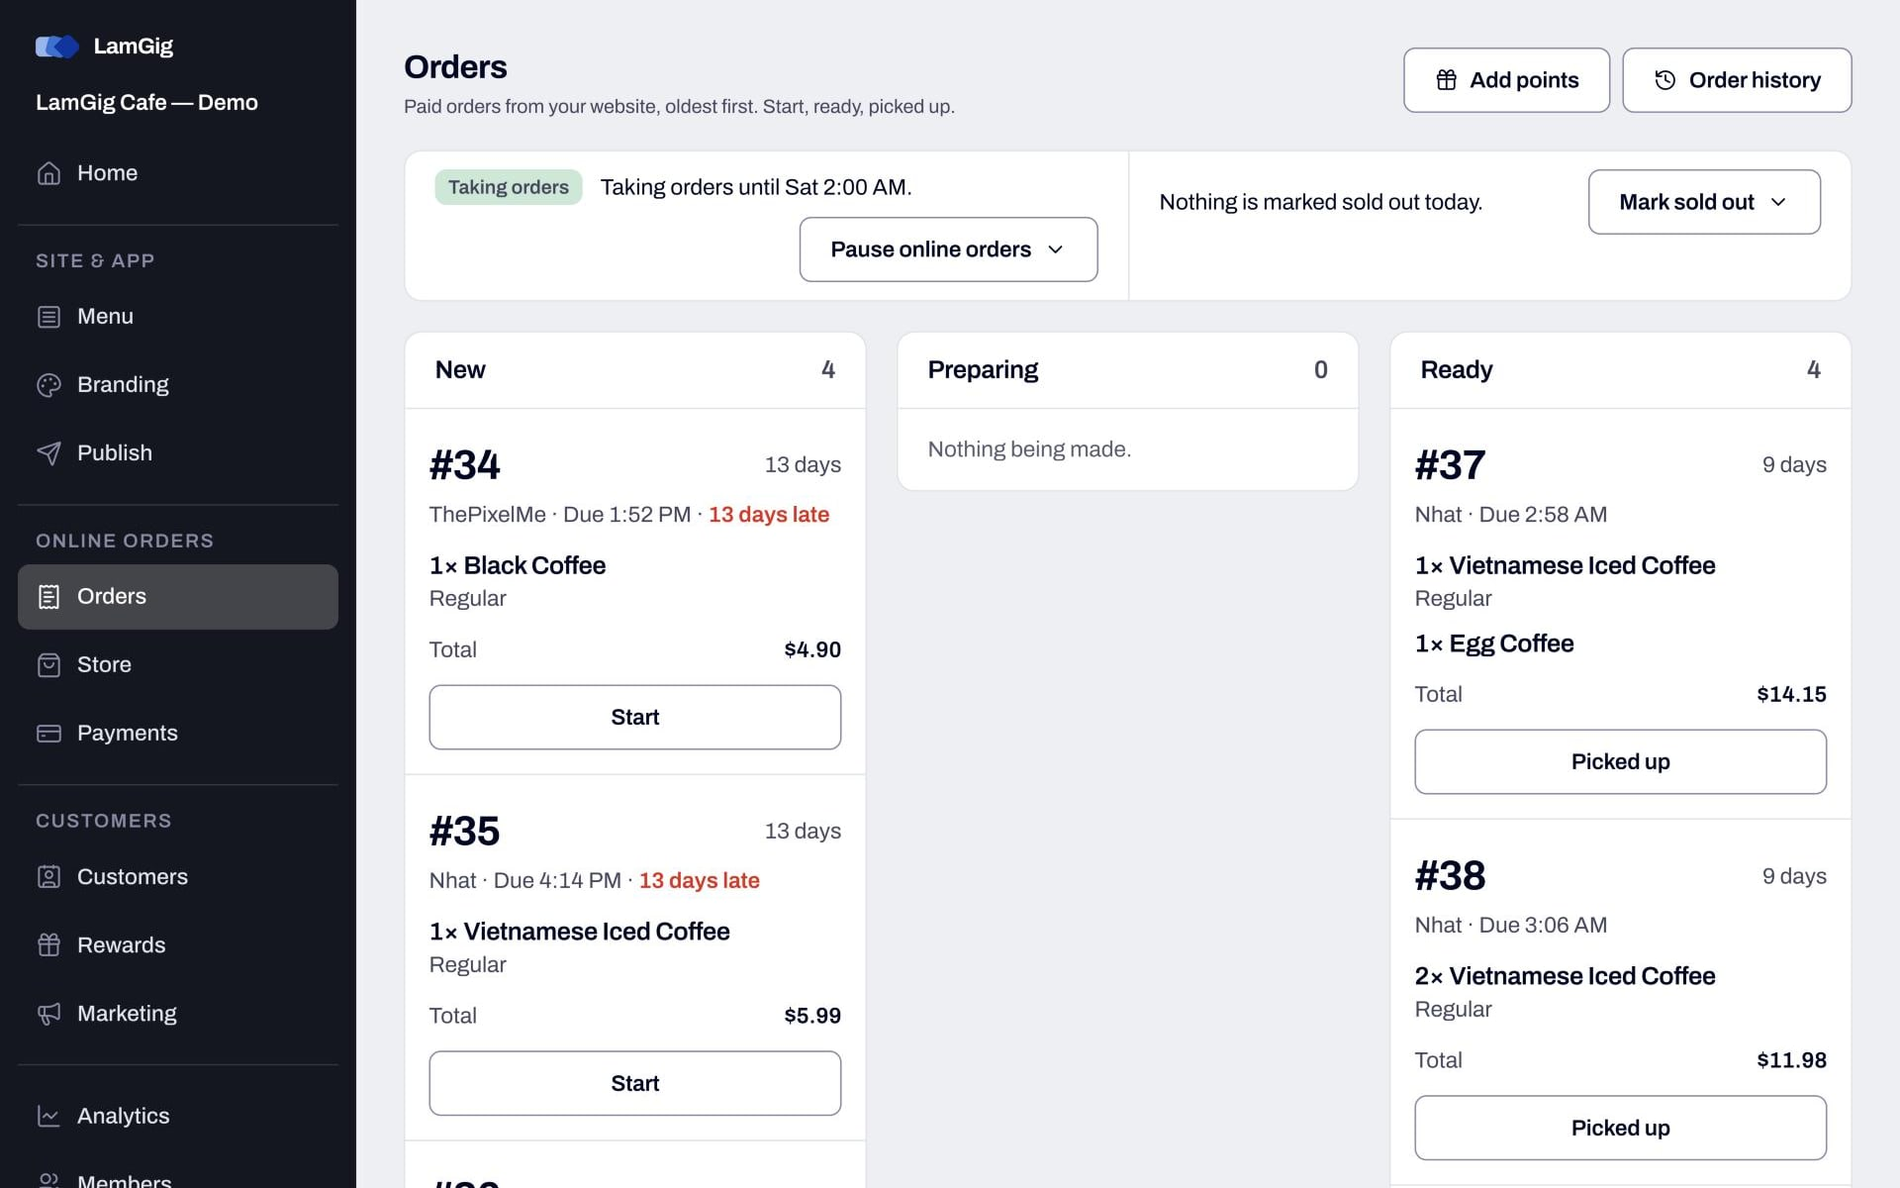
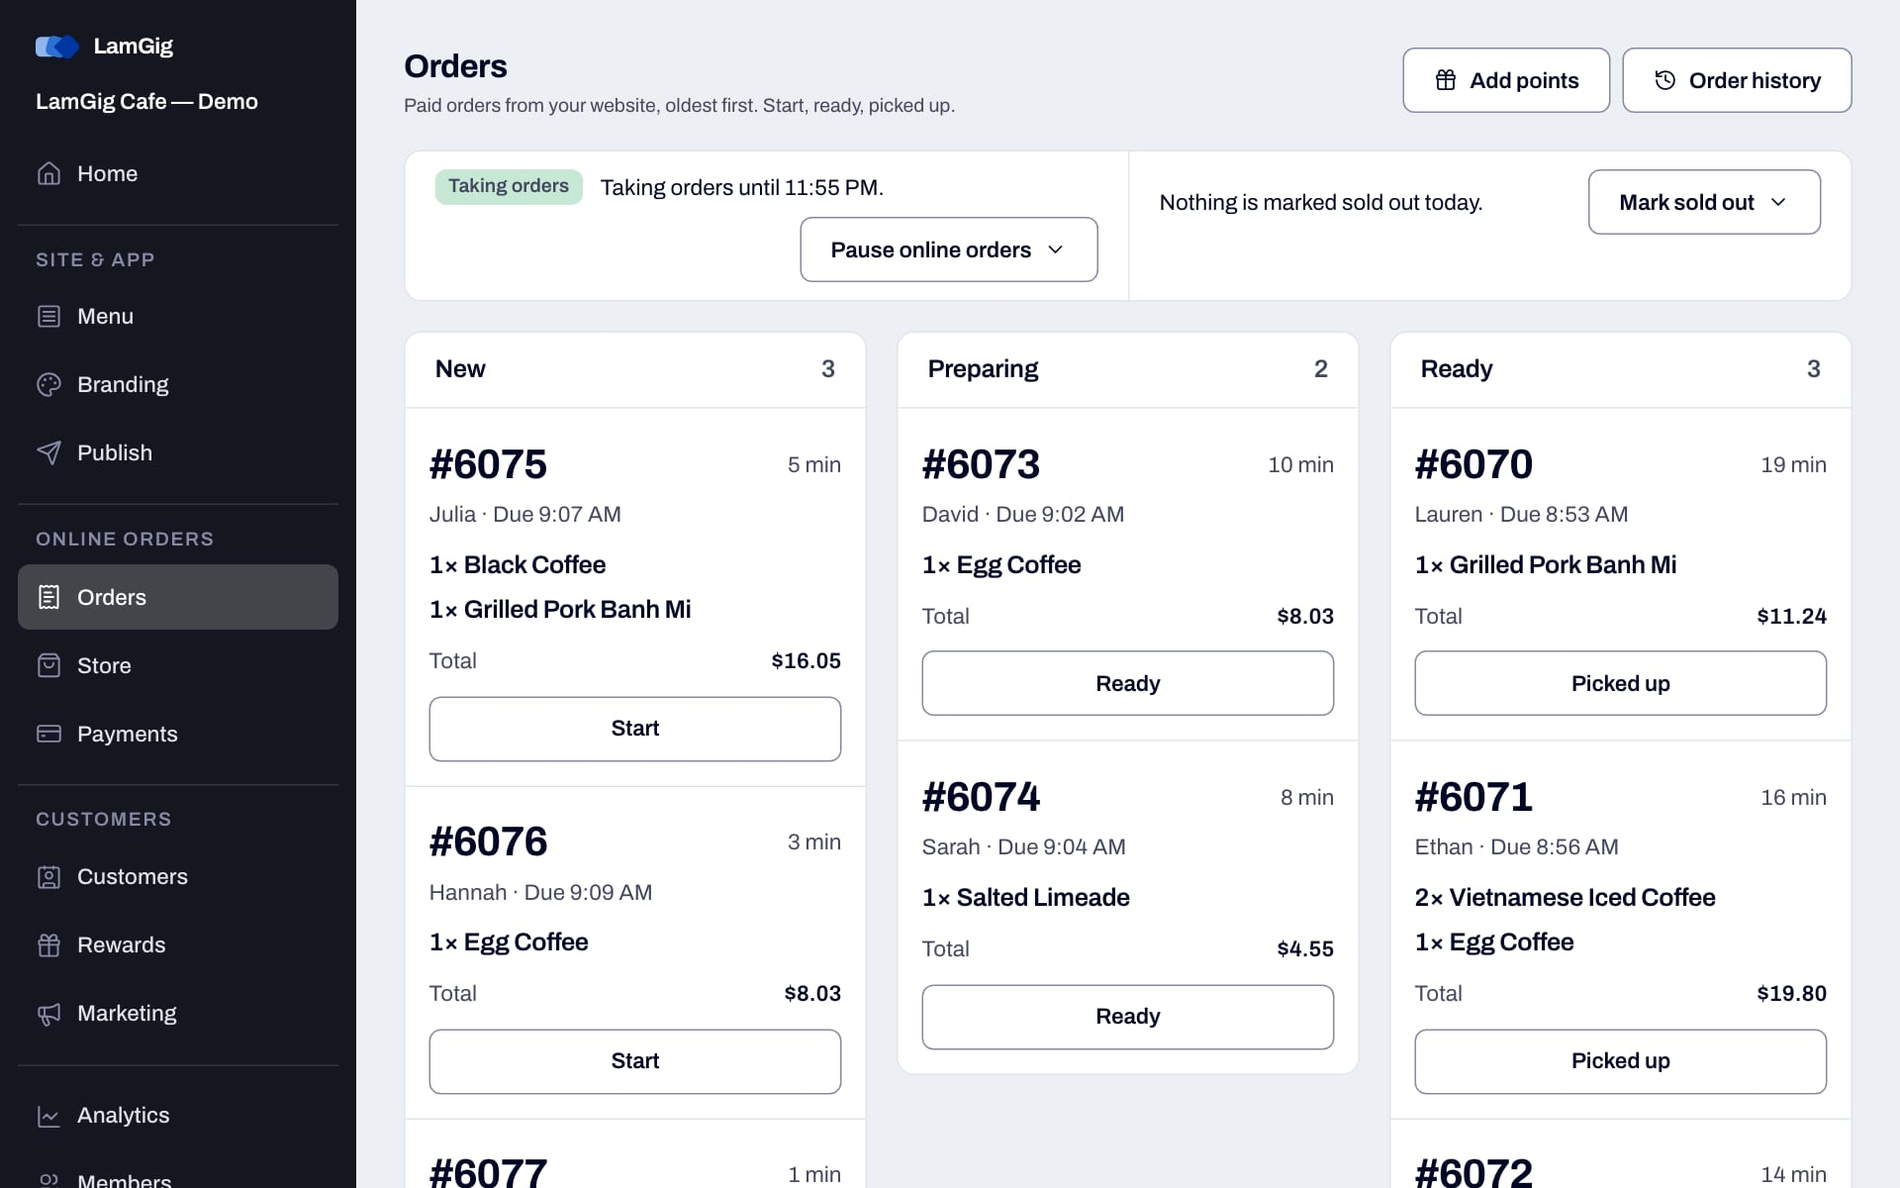
feat: update LamGig with booking, its customer list and new screenshots
The case study predated booking and the customer and marketing screens,
and it opened on the architecture. Hiring managers read this page, so
the copy now leads with what the product does for a business, in plain
language.

The summary, description, status, problem, highlights, design notes and
learnings are rewritten. The highlights add booking and the customer
list that sorts itself. The status says no real business is live yet,
that everything on screen is sample data, and what is not switched on
or built. Figures are recounted from the LamGig repos: more than 250,000
lines of code and more than 3,000 automated tests.

Ten screenshots of the demo stores, in the same 1920x1200 JPEG format,
replace the old seven. The app image's level-up screen is a mock-up, and
both the image and the loyalty highlight say levels are not built.
docs/data.md carries the new count.

diff --git a/src/lib/projects/lamgig-platform.ts b/src/lib/projects/lamgig-platform.ts
@@ -19,38 +19,50 @@ export const lamgigPlatform: Project = {
   linkLabel: "Visit lamgig.com",
   screenshots: [
     {
+      src: "/lamgig/screenshot-calendar.jpg",
+      alt: "Calendar in the LamGig dashboard for the salon demo: a day of sample appointments in a column for each team member, with New booking, Walk-in, and Block time buttons",
+    },
+    {
+      src: "/lamgig/screenshot-website-salon.jpg",
+      alt: "Home page of the salon demo's website: a large photo of nails being painted, the salon's name, today's opening time, and a Book now button",
+    },
+    {
+      src: "/lamgig/screenshot-booking.jpg",
+      alt: "Booking page on the salon demo's website at step 3 of 4: a row of dates and the open times for a gel manicure, with the service, person, and total summarized below",
+    },
+    {
+      src: "/lamgig/screenshot-ordering.jpg",
+      alt: "Order for pickup page on the cafe demo's website: coffees with photos and prices, one marked sold out, beside a Your order panel",
+    },
+    {
       src: "/lamgig/screenshot-orders.jpg",
-      alt: "LamGig dashboard Orders screen for the LamGig Cafe demo: a live order queue with New, Preparing, and Ready columns, each order card showing its items, total, and a Start or Picked up button, plus controls to pause online ordering and mark items sold out",
+      alt: "Orders screen for the cafe demo: sample orders in New, Preparing, and Ready columns with a one-tap button on each, plus controls to pause online orders and mark items sold out",
     },
     {
-      src: "/lamgig/screenshot-home.jpg",
-      alt: "Dashboard Home screen with a Needs you alert about late orders and an Open orders button, Orders today and Sales today cards, and a Recent activity feed of team and loyalty actions",
+      src: "/lamgig/screenshot-app.jpg",
+      alt: "Four screens from the cafe demo's iPhone app: the home screen with an Order online button, the menu, a mock-up of the level-up screen saying You reached Gold above a bottom navigation with Rewards selected, and a We miss you push notification on the lock screen. A caption says points are built and levels are a mock-up, not built yet",
     },
     {
-      src: "/lamgig/screenshot-menu.jpg",
-      alt: "Dashboard Menu editor listing Coffee items with descriptions, prices, and availability toggles, with a seasonal item switched off and a New category button",
+      src: "/lamgig/screenshot-customers.jpg",
+      alt: "Customers screen for the cafe demo: sample customers sorted into New, Regulars, VIP, At risk, Lapsed, Subscribed, and Rewards members, each with orders, lifetime value, and points",
+    },
+    {
+      src: "/lamgig/screenshot-automations.jpg",
+      alt: "Automations list in the cafe demo's Marketing screen: Welcome, Thank-you, Win-back, Birthday, and Loyalty milestone, each switched on, with sample counts of messages sent in the last 30 days",
+    },
+    {
+      src: "/lamgig/screenshot-win-back.jpg",
+      alt: "Win-back automation report for the cafe demo, with sample figures: emails sent and opened, and the orders and sales that followed within 7 days, with a plain explanation of how they are counted",
     },
     {
       src: "/lamgig/screenshot-publish.jpg",
-      alt: "Publish screen showing the live version, a Publish again button, and a version history with a one-click Roll back button beside every earlier version",
-    },
-    {
-      src: "/lamgig/screenshot-store.jpg",
-      alt: "Store settings screen with online ordering status and pause options, live Stripe payments with accepted merchant terms, LamGig Payments switched on, and new-order email alerts",
-    },
-    {
-      src: "/lamgig/screenshot-rewards.jpg",
-      alt: "Rewards program settings showing what members earn now and a scheduled change to points per dollar, daily app check-in, joining, and birthday points, each with plain-language rules",
-    },
-    {
-      src: "/lamgig/screenshot-push-automation.jpg",
-      alt: "Win-back automation editor in the Marketing section: a push notification form with title, message, and tap destination beside a live lock-screen preview",
+      alt: "Publish screen: the live version, a Publish again button, and a version history with a one-click Roll back button beside every earlier version",
     },
   ],
   summary:
-    "A multi-tenant platform that gives small businesses the technology big chains pay six figures for: their own website and iOS and Android apps, online ordering and payments, customer accounts, a loyalty program, and automated email and push marketing, all run from one dashboard.",
+    "The technology big chains pay six figures for, in one product a small business can run by itself: a website and apps under its own name, online ordering and payments, appointment booking, a customer list that sorts itself, automatic marketing, and loyalty points.",
   description:
-    "I founded LamGig and designed and built the entire platform myself in about three months. That covers the multi-tenant backend and database, the owner dashboard and LamGig's staff console, payments, email and push messaging, the customer website, and native iOS and Android apps. It comes to more than 200,000 lines of code, which is the kind of system a company would normally give to a full product team.",
+    "I founded LamGig and designed and built all of it myself: the dashboard business owners work in, the websites and iPhone and Android apps their customers use, and everything behind them that takes payments, books appointments, and sends marketing. It comes to more than 250,000 lines of code and more than 3,000 automated tests, the kind of product a company would normally give to a full team.",
   role: "Founder, designer, and sole engineer",
   stack: [
     "Next.js 16",
@@ -72,37 +84,41 @@ export const lamgigPlatform: Project = {
     "Vitest",
   ],
   status:
-    "Live in production and set up for real payments. The whole platform, including the website and both apps, runs end to end on staging with a demo cafe, ahead of its first pilot business.",
+    "Live in production with two demo stores, a cafe and a salon. No real business is on it yet, so every customer, order, and dollar in these screenshots is sample data. Production is set up for real payments and bookings. Email and push marketing and the iPhone and Android apps are built and tested, but aren't yet switched on for real businesses or in the app stores. A fourth product, Connected Growth, where neighboring businesses send each other customers, is planned and not built.",
   problem:
-    "Big chains run on enterprise software for online ordering, customer data, automated marketing, and loyalty. A neighborhood cafe can't afford any of that, so it pays for a handful of separate subscriptions that don't share customers or data.\n\nLamGig gives that cafe the whole set on one platform. Its website and apps carry its own brand, and ordering, payments, the customer list, loyalty, and marketing all work from the same data. The hard part was keeping it simple for an owner who logs in once a month while making it solid enough to handle money, customer data, and messaging for many businesses at once.",
+    "Nearly 60% of revenue at Starbucks' US company-run stores comes from rewards members. Starbucks knows your name, your usual, and the week you stopped coming, and it sends you a reason to come back. The business on your corner has a paper book, or a few separate subscriptions that don't share customers or data. A restaurant that joins a delivery app gives up a cut of every order and gets a first name and a last initial in return.\n\nLamGig gives that business the whole set under its own name. Every order, appointment, and loyalty point lands on one customer record that belongs to the business, and the marketing works from it automatically. The hard part was keeping all of that simple for an owner with no technical help, while making it solid enough to handle money, customer data, and messaging for many businesses at once.",
   highlights: [
     {
-      title: "One publish updates the website and both apps",
-      body: "Owners change their menu, prices, hours, and branding in plain forms and publish when they're ready. The website and the native iOS and Android apps all read the same published content, so a new price reaches a customer's phone within a minute, with no app update. Each publish is saved as a numbered version, and rolling back takes one click. Rollback is instant because nothing gets rebuilt; the live pointer just moves back to the earlier version. If a publish fails halfway, it picks up where it stopped, and each of those failure points has an automated test that breaks it on purpose.",
+      title: "One click updates the website and both apps",
+      body: "Owners change their menu or services, prices, hours, and branding in plain forms, then press Publish. The website and the iPhone and Android apps all update within about a minute, with no developer and no app store release. Every publish is saved, so one click brings back any earlier version. If a publish fails halfway, it picks up where it stopped.",
     },
     {
-      title: "Online ordering with a live counter",
-      body: "Customers order pickup on the business's own website and pay by card or mobile wallet. The order appears on the dashboard's Orders screen as soon as it's paid, with a chime so nobody misses it, and staff move it through New, Preparing, and Ready with one tap. They can pause online ordering for 30 minutes or until close, mark items sold out for the day, and issue refunds. The Home screen flags anything that needs attention, like orders running late.",
+      title: "Online ordering with no marketplace in the middle",
+      body: "Customers order pickup on the business's own website or app and pay by card or mobile wallet. Paid orders appear on the counter screen within seconds, with a chime, and staff move each one along with a tap. They can pause ordering during a rush, mark items sold out for the day, and issue refunds. Through Stripe, the money goes straight to the business's own bank account and LamGig's fee comes out automatically.",
     },
     {
-      title: "Payments with LamGig's revenue built in",
-      body: "Payments run on Stripe Connect. Each business is paid straight to its own bank account, and LamGig's platform fee comes out of every order automatically. Production is set up for real money. LamGig's staff can stop ordering for one business or the whole platform in an emergency, a job reconciles payments every night, any order can be rebuilt from Stripe's records, and each business accepts merchant terms before it can take a payment.",
+      title: "Takes bookings while the shop is closed",
+      body: "A salon's customers choose a service, a person, and a time on its website at any hour. The appointment lands on the front desk's calendar by itself, and one person can never be booked twice for the same time. Customers get a confirmation and a reminder email and can change or cancel online, up to a cutoff the business sets. The owner gets a summary in the morning. Walk-ins and phone bookings go on the same calendar.",
     },
     {
-      title: "Email and push marketing with guardrails",
-      body: "Owners can send email campaigns and push notifications, or turn on five ready-made automations: welcome, thank-you, win-back, birthday, and loyalty milestone. Customers have to opt in, unsubscribing takes one click, bounced addresses are suppressed, nobody gets more than one marketing message every three days, and notifications only go out between 9 a.m. and 8 p.m. local time. Each report shows the orders a message brought in, so owners can see what their marketing earns.",
+      title: "A customer list that builds and sorts itself",
+      body: "Every order, visit, and loyalty sign-up lands on one customer record, with no data entry. LamGig sorts customers into new, regular, VIP, at risk, and lapsed, so an owner can see who is slipping away while there's still time to act. The list belongs to the business, not a marketplace.",
     },
     {
-      title: "Customer accounts and a loyalty program",
-      body: "Customers sign in with an email code, a password, Google, or Apple, and the same account works on the website and in both apps. Each business sets its own points rules: points per dollar, a daily check-in in the app, and points for joining and on birthdays. At the counter, a member shows a six-digit code from the app and staff add points for the purchase from the dashboard. Rule changes are scheduled 30 days out and members are emailed about them automatically. The dashboard also estimates what outstanding points are worth for the books, and flags any member credited more than three times in a day.",
+      title: "Marketing that runs itself and reports what it earned",
+      body: "Five ready-made automations send themselves once they're turned on: welcome, thank-you, win-back, birthday, and loyalty milestone, by email or push notification. Owners can send their own campaigns too. Each report shows the orders a message brought in and what they were worth. Customers have to opt in, unsubscribing takes one click, and nobody gets more than one marketing email every three days.",
     },
     {
-      title: "Security and reliability from a team of one",
-      body: "Postgres row-level security keeps each business's data separate inside the database itself, and team members get admin, editor, or viewer access. LamGig's own staff work from a separate staff console where they set up businesses, review activity, and clear stuck operations. A customer's data can be erased on request at one business or across the whole platform. Behind all of it are 39 automated verification suites, 136 test files, and a release process where nothing reaches production without a manual sign-off.",
+      title: "Loyalty points across the website, apps, and counter",
+      body: "Customers earn points on orders, at the counter with a six-digit code from the app, and for opening the app each day. One account works on the website and in both apps, with sign-in by email code, password, Google, or Apple. Each business sets its own rules in plain language, and members are told automatically before a rule changes. Points can be earned today. Spending them, and the levels shown in the app screenshot, are planned and not built yet.",
+    },
+    {
+      title: "Built to be trusted with money and customer data",
+      body: "Each business's data is kept separate inside the database itself, not just in the app, and team members only get the access their role allows. A customer's data can be erased on request, at one business or across the whole platform. LamGig's own staff work from a separate console where they set up businesses and clear anything stuck. More than 3,000 automated tests check the work, and nothing reaches production without my sign-off.",
     },
   ],
   designNotes:
-    "The dashboard is written for a busy cafe owner. Ideas like drafts, versions, and rollbacks get a plain explanation right where they appear, every form says what each field is for, and risky actions spell out what will change before anything happens.\n\nEach role sees only what it can use. Viewers get read-only screens, editors can change content, and admins manage the team, payments, and publishing.\n\nThe customer side works the same way. The website and apps take every color, font, word, and price from what the owner published, so the business looks like itself everywhere and nobody has to touch code to change it.",
+    "The dashboard is written for a busy business owner with no technical help. Ideas like drafts, versions, and rollbacks get a plain explanation right where they appear, every form says what each field is for, and risky actions spell out what will change before anything happens.\n\nEach role sees only what it can use. Viewers get read-only screens, editors can change content, counter staff work the orders, and admins manage the team, payments, and publishing.\n\nThe customer side works the same way. The websites and apps take every color, font, word, and price from what the owner published, so nobody has to touch code to change them. A cafe and a nail salon run on the same platform and look nothing alike.",
   learnings: [
     {
       lead: "Design for the once-a-month user.",
@@ -113,7 +129,11 @@ export const lamgigPlatform: Project = {
       body: "Instead of renting a marketing suite, LamGig runs its own segments, automations, and frequency rules. It pays only to send: email through Resend, and push straight to Apple and Google with no vendor in between. That keeps costs low and keeps the customer relationship with the business.",
     },
     {
-      lead: "Prove it on real infrastructure, with real money.",
+      lead: "A salon sells time, not a cart.",
+      body: "Ordering and booking look alike until you build them. A cart can sell the same coffee all day, but an hour can only be sold once. So booking got its own engine, and the rule that one person can't be booked twice lives in the database, where a bug in the app can't break it.",
+    },
+    {
+      lead: "Prove it on real services, not on paper.",
       body: "Each phase ended with a sign-off run against real services: real Gmail and Outlook inboxes, live Stripe configuration in production, push delivered to a real iPhone through Apple, and alerts fired on purpose in production to prove they work. Anything I didn't actually run is recorded as untested, which kept a one-person project honest as it grew.",
     },
   ],

diff --git a/docs/data.md b/docs/data.md
@@ -115,7 +115,7 @@ Order matters — it determines the rendered order in About → Find me.
 
 | `id`                | file                                                             | `title`                                          | `tags`                                                                                      | rich case-study?              |
 | ------------------- | ---------------------------------------------------------------- | ------------------------------------------------ | ------------------------------------------------------------------------------------------- | ----------------------------- |
-| `lamgig-platform`   | [lamgig-platform.ts](../src/lib/projects/lamgig-platform.ts)     | LamGig: The growth platform for small businesses | Web · App · Next.js · PostgreSQL · React · TypeScript · Swift · Node.js · Supabase · Stripe | yes (full + 7 shots)          |
+| `lamgig-platform`   | [lamgig-platform.ts](../src/lib/projects/lamgig-platform.ts)     | LamGig: The growth platform for small businesses | Web · App · Next.js · PostgreSQL · React · TypeScript · Swift · Node.js · Supabase · Stripe | yes (full + 10 shots)          |
 | `bonneville-mobile` | [bonneville-mobile.ts](../src/lib/projects/bonneville-mobile.ts) | Bonneville News & Sports Mobile                  | React Native · TypeScript · App                                                             | yes (full + 9 portrait shots) |
 | `claudeswitcher`    | [claudeswitcher.ts](../src/lib/projects/claudeswitcher.ts)       | ClaudeSwitcher                                   | Swift · App                                                                                 | yes (full + logo + 2 shots)   |
 | `heygrillhey`       | [heygrillhey.ts](../src/lib/projects/heygrillhey.ts)             | Hey Grill Hey — Recipe and commerce rebuild      | Web · WordPress · Shopify · TypeScript · React                                              | yes (full + 6 shots)          |
